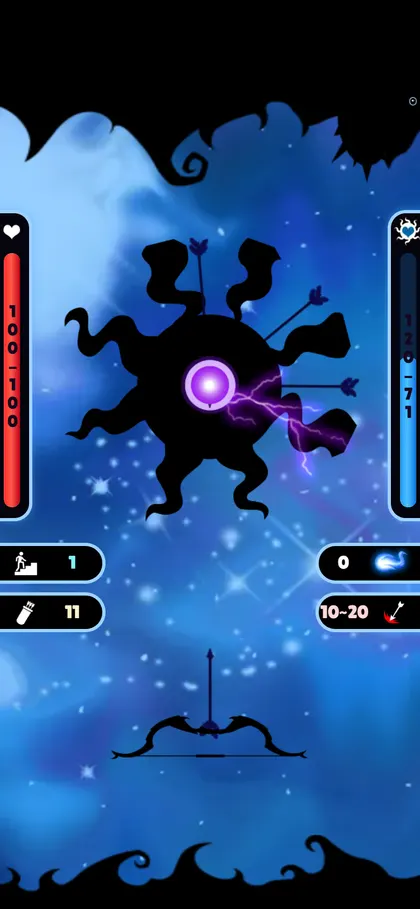
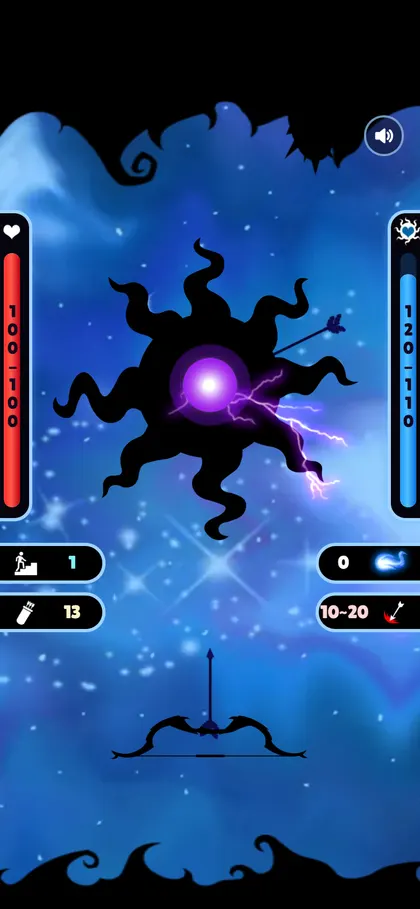
Tentacles: apply the Unity flipX + flipY on every second tentacle
The odd spriteTentaculo renderers in MonstroLVL1-3-5 are flipped on both
axes, which is a 180-degree turn. Without it four tentacles had their
thick end pointing outward. README screenshots retaken.

diff --git a/src/game/Monster.ts b/src/game/Monster.ts
@@ -5,16 +5,20 @@ import { SpriteBatch } from '../gfx/SpriteBatch';
 
 const DEG = Math.PI / 180;
 
-/** MonstroLVL1-3-5 from level.unity: [x, y, rotation deg, scale] of each spriteTentaculo (254 x 215 px). */
+/**
+ * MonstroLVL1-3-5 from level.unity: [x, y, rotation deg, scale] of each spriteTentaculo (254 x 215 px).
+ * Every second one has flipX + flipY on its SpriteRenderer, which is the same as turning it 180°,
+ * so each pair shares a rotation but both thin tips point away from the body.
+ */
 const TENTACLES: readonly (readonly [number, number, number, number])[] = [
   [-1.34, -0.63, 0, 0.6],
-  [1.22, 0.71, 0, 0.6],
+  [1.22, 0.71, 0 + 180, 0.6],
   [0.68, -1.29, 90, 0.6],
-  [-0.7, 1.25, 90, 0.6],
+  [-0.7, 1.25, 90 + 180, 0.6],
   [-0.6, -1.33, 41.6, 0.6],
-  [0.4, 1.34, 41.6, 0.6],
+  [0.4, 1.34, 41.6 + 180, 0.6],
   [1.34, -0.48, 131.6, 0.6],
-  [-1.34, 0.5, 131.6, 0.6],
+  [-1.34, 0.5, 131.6 + 180, 0.6],
 ];
 const TENTACLE_W = 2.54;
 const TENTACLE_H = 2.15;
